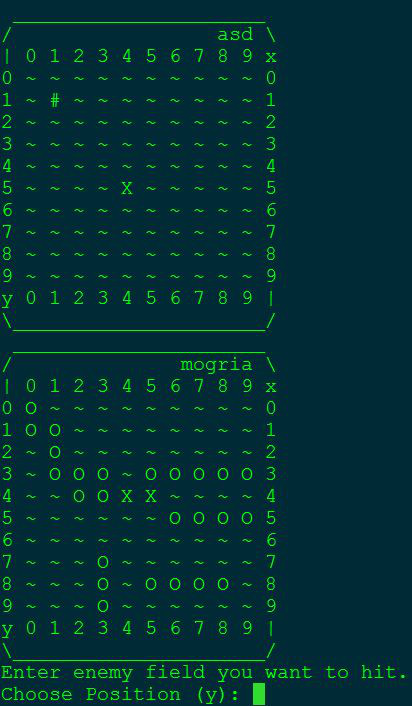
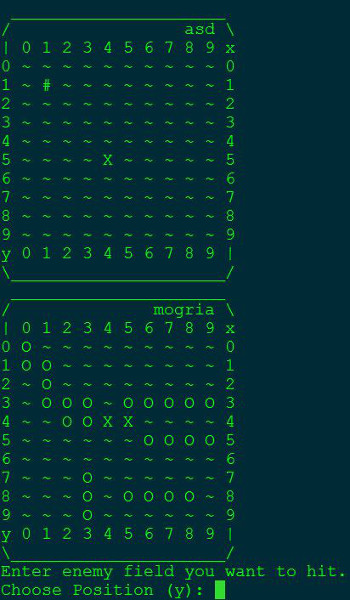
added images to README.md, resized images

diff --git a/README.md b/README.md
@@ -7,6 +7,10 @@ Let's start off with a little [Haiku](https://de.wikipedia.org/wiki/Haiku):
 > Battleships are on the C  
 > Hit, Sink, and triumph
 
+![cbattleship-server after intialization](https://raw.githubusercontent.com/troopa/cBattleship/master/doc/server.jpg)  
+![cbattleship-text-client which is connected to the server](https://raw.githubusercontent.com/troopa/cBattleship/master/doc/player1.jpg)
+![cbattleship-text-client which plays against the other client](https://raw.githubusercontent.com/troopa/cBattleship/master/doc/player2.jpg)
+
 A implementation of the classic Battleship game in C++. Includes a server program, and multiple different client programs. The server program wait's until two client program connected to start a game. The server dictates the rules of the game.
 
 ## Features
